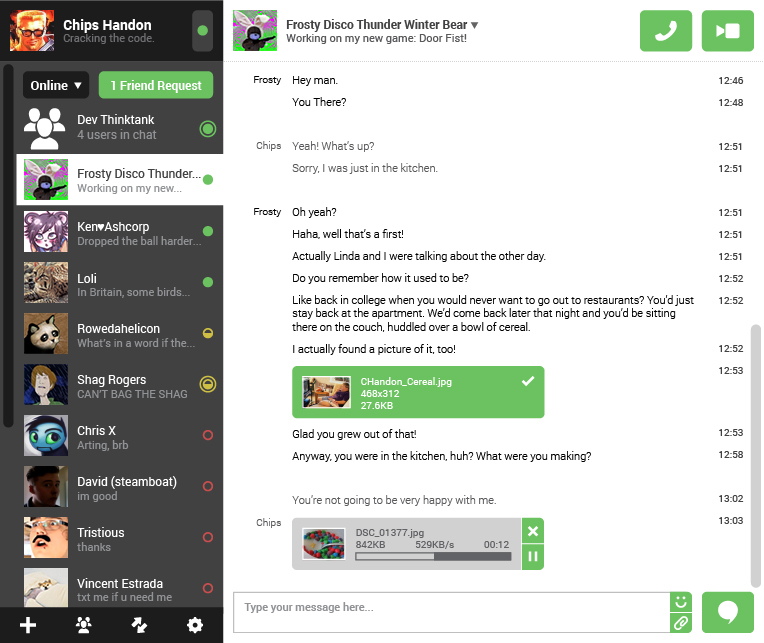
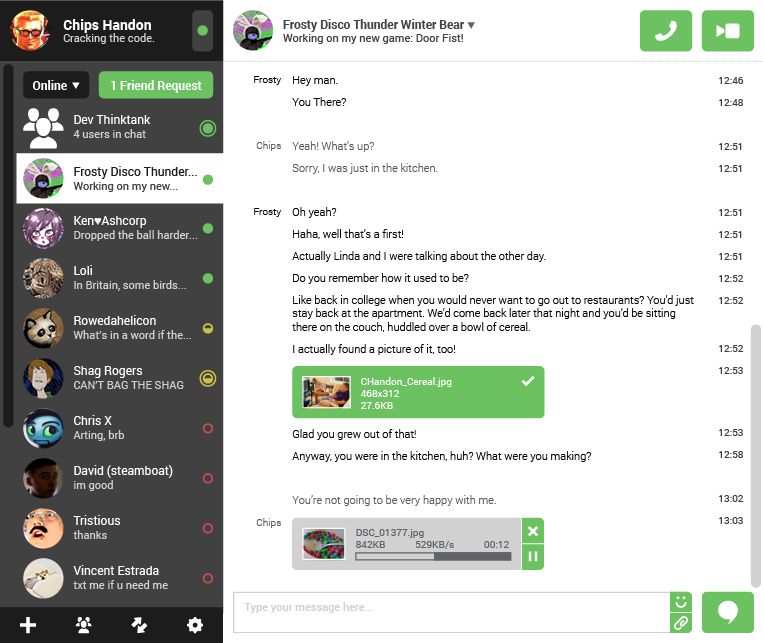
Added the UI Guidelines, updated current.jpg to reflect the current mockup.

diff --git a/UI GUIDELINES.md b/UI GUIDELINES.md
@@ -1,0 +1,60 @@
+# Tox User Interface Guidelines
+======
+
+## Padding
+
+In the mockup, nearly everything is given 10 pixels of space. There are only a few places where this rule is broken, and those are usually for good reason such as to draw attention. This 10 pixel number is not set in stone, but if you're building a UI off of these mockups, I would at the very least appreciate you try to use a uniform padding if you're not going to use 10 pixels exactly.
+
+## Corners
+
+In the process of "teaching" the user how to interact with Tox, we give them a few visual cues that things are clickable. One of them is to use the cue color Tox Green, while the other is to give the clickable object rounded corners. All rounded corners in this mockup have a corner radius of 5 pixels.
+
+## Colors
+
+Tox Green:
+Tox Yellow:
+Tox Red:
+
+Black: #000000
+Dark Grey: #1c1c1c
+Medium Grey: #414141
+Light Grey: #d1d1d1
+White: #ffffff
+
+## Avatars
+
+User and Contact avatar images are 40x40 pixels.
+
+## Fonts
+
+Currently these mockups are employing the use of the Roboto font which can be downloaded <a href="http://developer.android.com/design/style/typography.html">here</a>.
+
+### User (You)
+Name: Bold, 14 px, white
+Status: Regular, 11px, light grey
+
+### Contact List (Friend)
+Contact Sorting and Friend Request Buttons: Bold, 12px, white
+
+Contact Name: Regular, 12px, white
+Contact Status: Regular, 11px, light grey
+
+Selected Contact Name: Regular, 12px, dark grey
+Selected Contact Status: Regular, 11px, medium grey
+
+### Chat Side
+Currently Selected Contact Header Name: Bold, 12px, dark grey
+Currently Selected Contact Header Status: Regular, 11px, medium grey
+
+User Chat Shortname: Light, 10px, medium grey
+Contact Chat Shortname: Light, 10px, black
+
+User Chat Text: Light, 11px, medium grey
+Contact Chat Text: Light, 11px, black
+
+File Transfer In-Progress Box Text: Regular, 10px, medium grey
+File Transfer Finished Box Text: Regular, 10px, white
+
+Timestamps: Regular, 10px, medium grey
+
+Chat Input Box Tooltip Text: Regular, 11px, light grey
